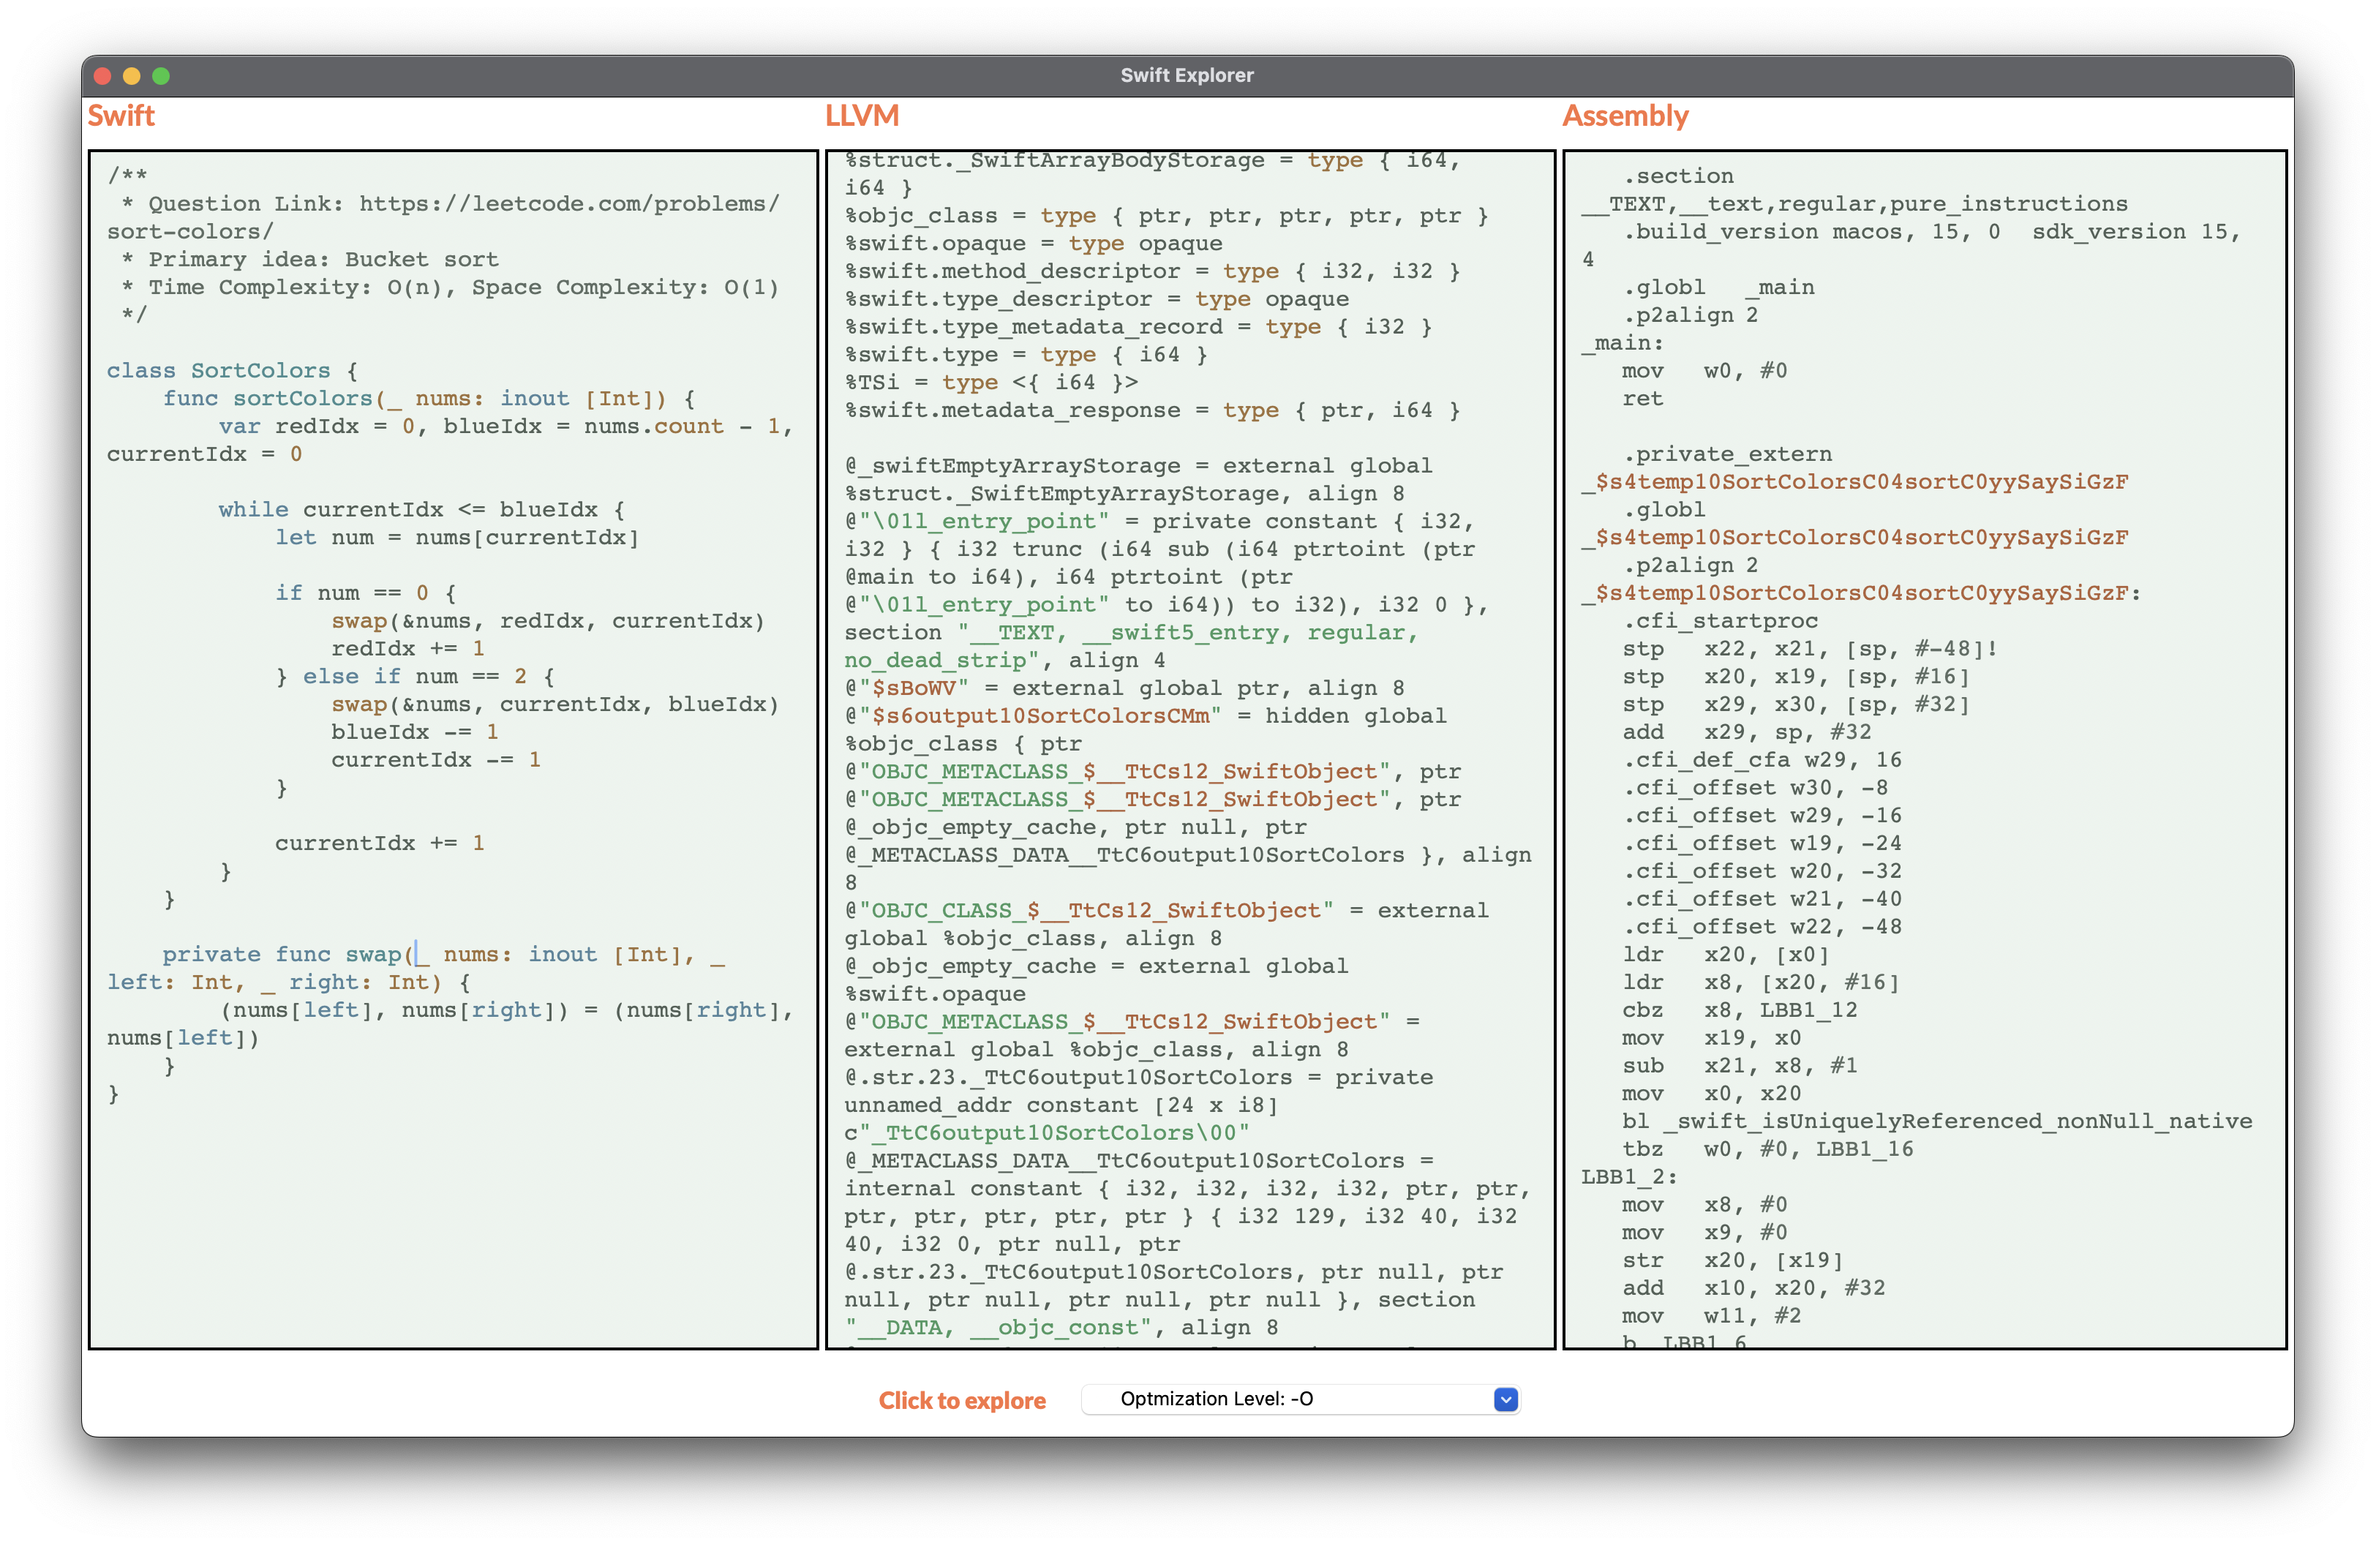
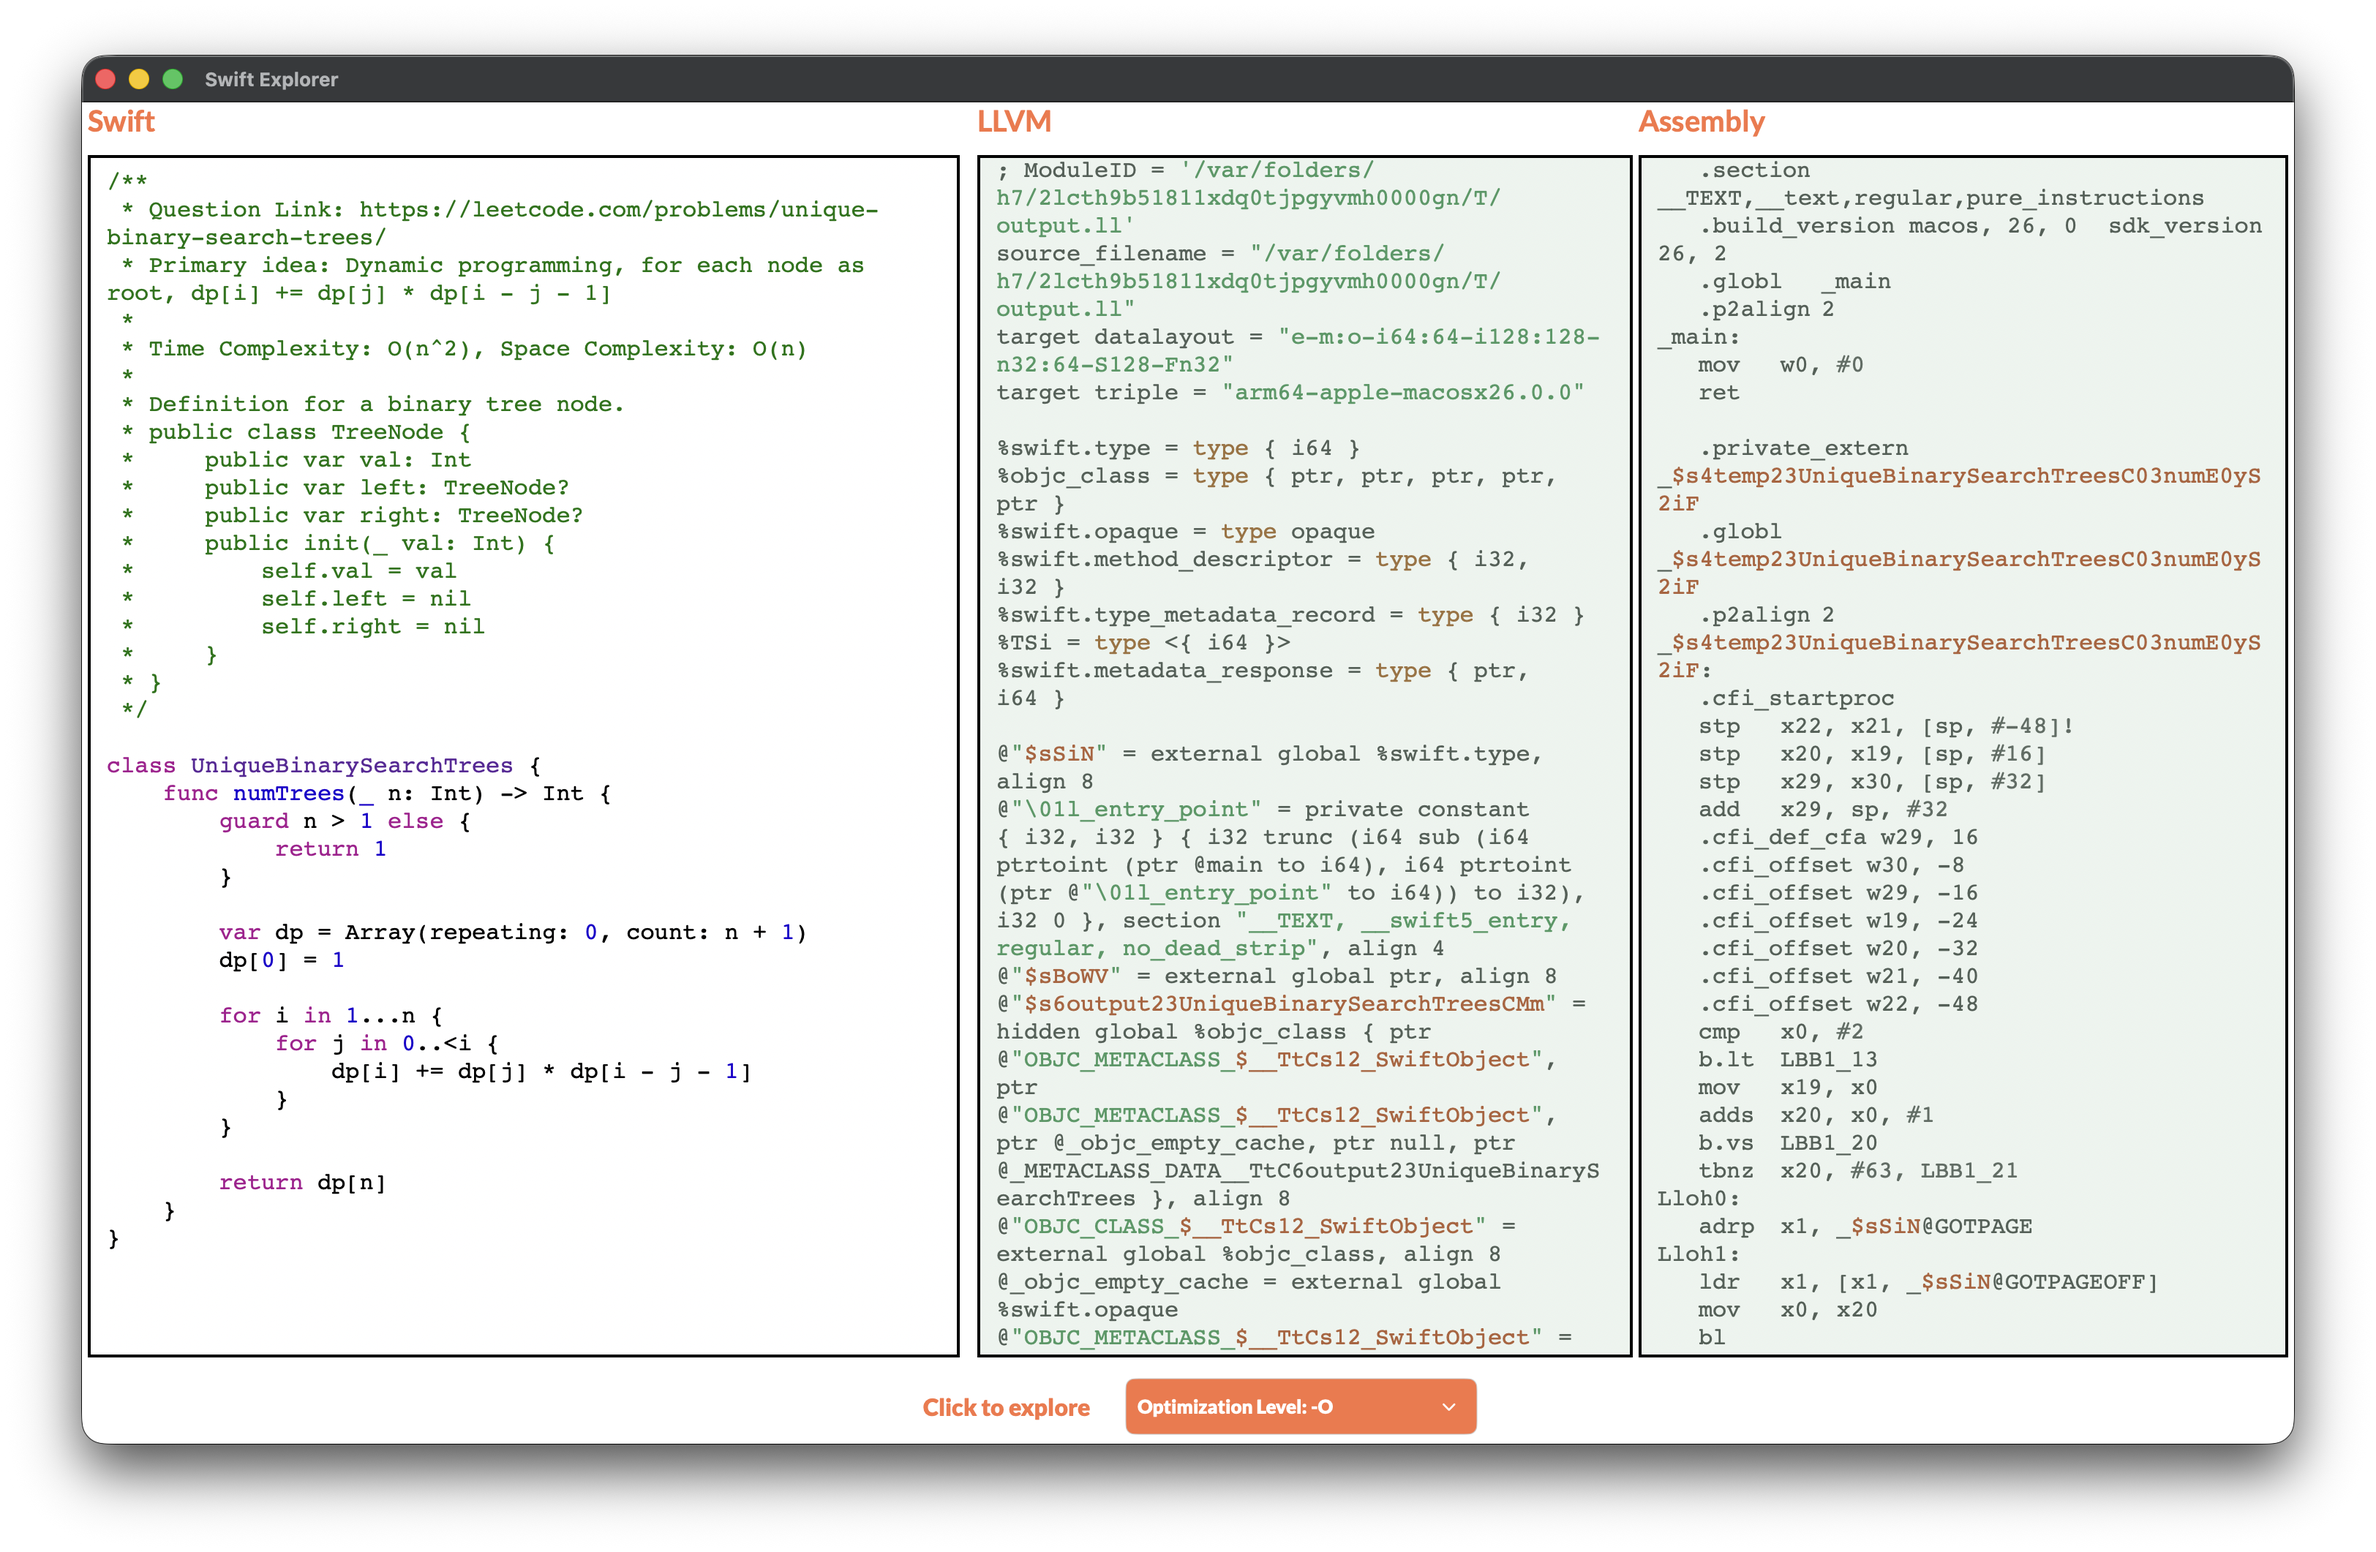
feat: setup xcode theme

diff --git a/SwiftExplorer/Features/Home/HomeView.swift b/SwiftExplorer/Features/Home/HomeView.swift
@@ -46,13 +46,14 @@ struct HomeView: View {
             CustomCodeEditorView(
                 source: $viewModel.swiftCode,
                 language: .swift,
-                theme: .atelierSavannaLight
+                theme: .xcodeWhite
             )
             .border(Color.themeBlack, width: 2)
             .font(.system(size: 100))
             .frame(maxWidth: .infinity)
         }
         .padding(.leading, 4)
+        .frame(minWidth: 600)
     }
     
     private func llvmView() -> some View {
@@ -129,25 +130,32 @@ struct HomeView: View {
                 .foregroundColor(.white)
                 .font(.latoBlack(size: 13))
         } content: { dismiss in
-            VStack(spacing: 4) {
-                ForEach(OptimizationLevel.allCases, id: \.self) { level in
-                    Button {
-                        viewModel.optimizationLevel = level
-                        dismiss()
-                    } label: {
-                        Text(level.rawValue)
-                            .font(.latoRegular(size: 14))
-                            .foregroundColor(.themeBlack)
-                            .frame(maxWidth: .infinity, alignment: .leading)
-                            .padding(.horizontal, 12)
-                            .padding(.vertical, 8)
-                            .background(Color.themeGrayClear)
-                            .cornerRadius(4)
-                    }
-                    .buttonStyle(.plain)
-                }
-            }
+            optimizationLevelOptionsView(dismiss: dismiss)
         }
         .frame(width: 240)
+    }
+
+    @ViewBuilder
+    private func optimizationLevelOptionsView(
+        dismiss: @escaping () -> Void
+    ) -> some View {
+        VStack(spacing: 4) {
+            ForEach(OptimizationLevel.allCases, id: \.self) { level in
+                Button {
+                    viewModel.optimizationLevel = level
+                    dismiss()
+                } label: {
+                    Text(level.rawValue)
+                        .font(.latoRegular(size: 14))
+                        .foregroundColor(.themeBlack)
+                        .frame(maxWidth: .infinity, alignment: .leading)
+                        .padding(.horizontal, 12)
+                        .padding(.vertical, 8)
+                        .background(Color.themeGrayClear)
+                        .cornerRadius(4)
+                }
+                .buttonStyle(.plain)
+            }
+        }
     }
 }
